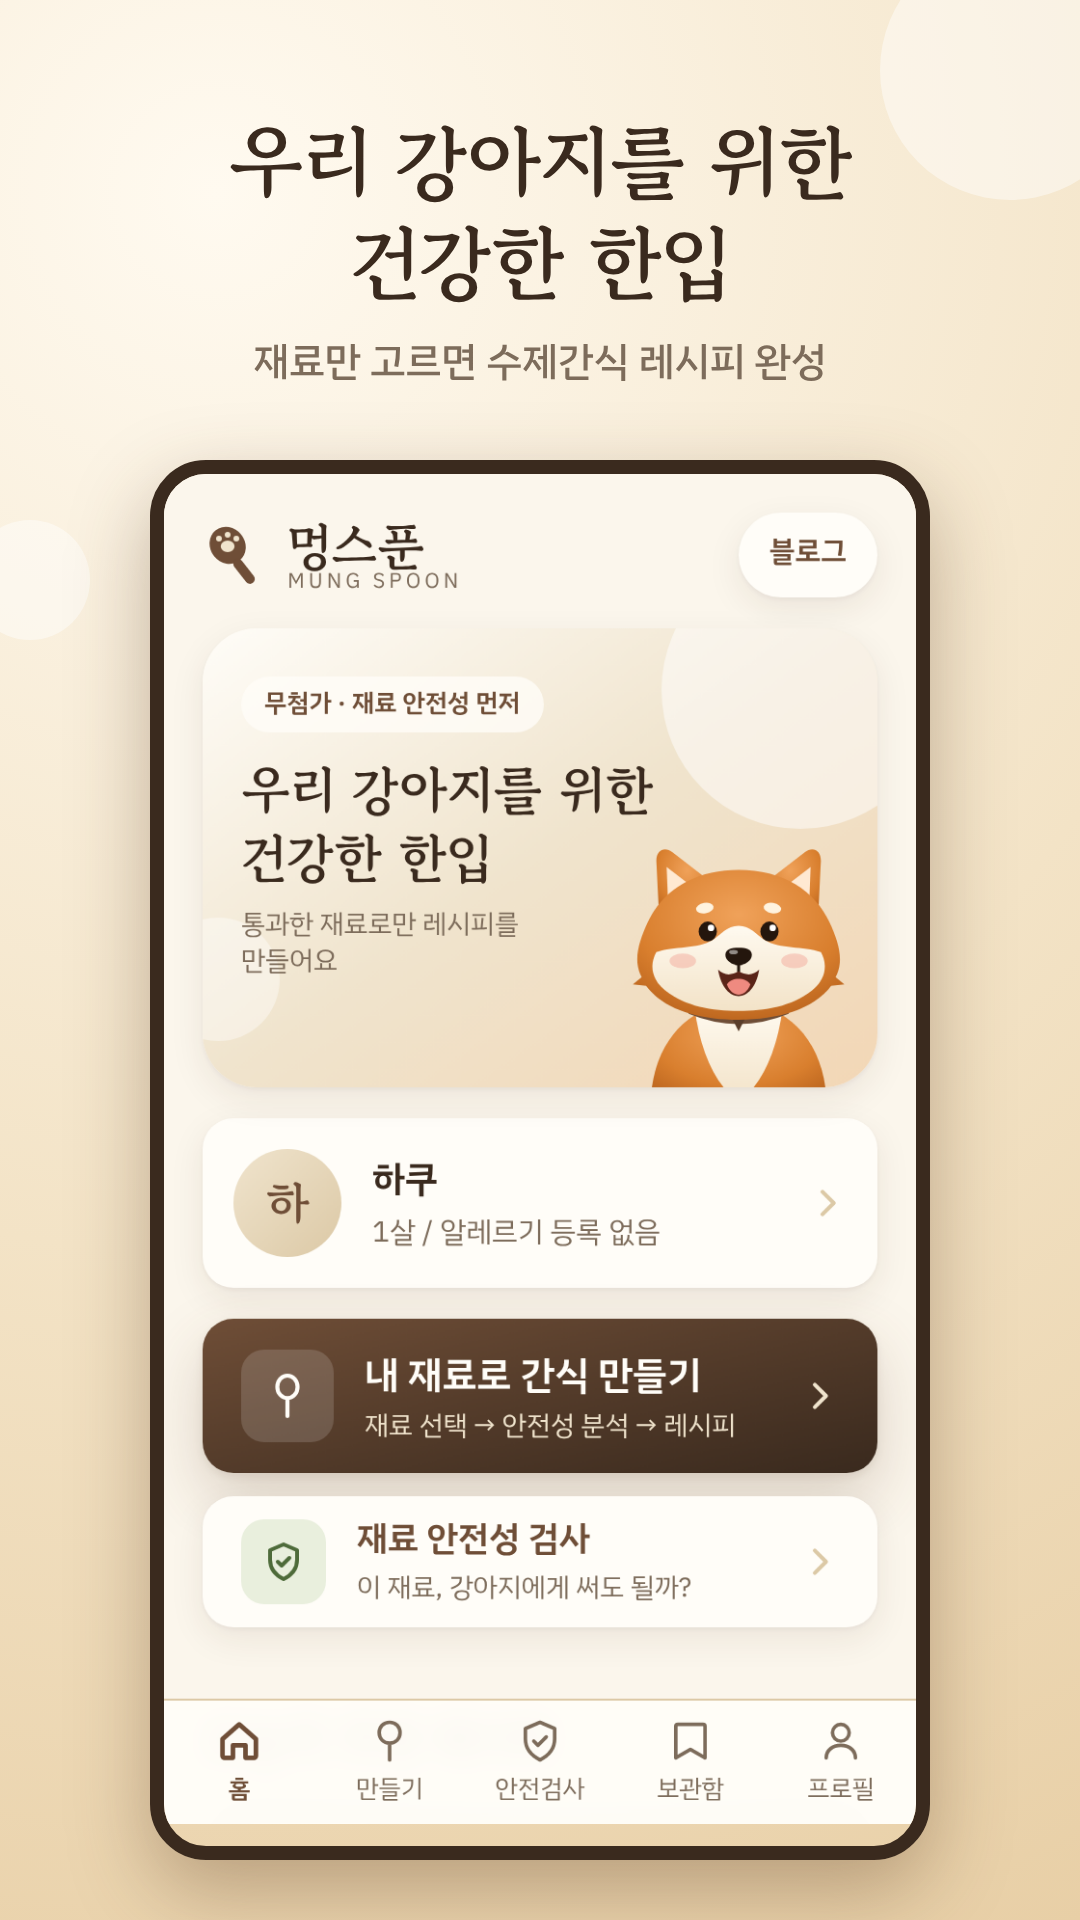
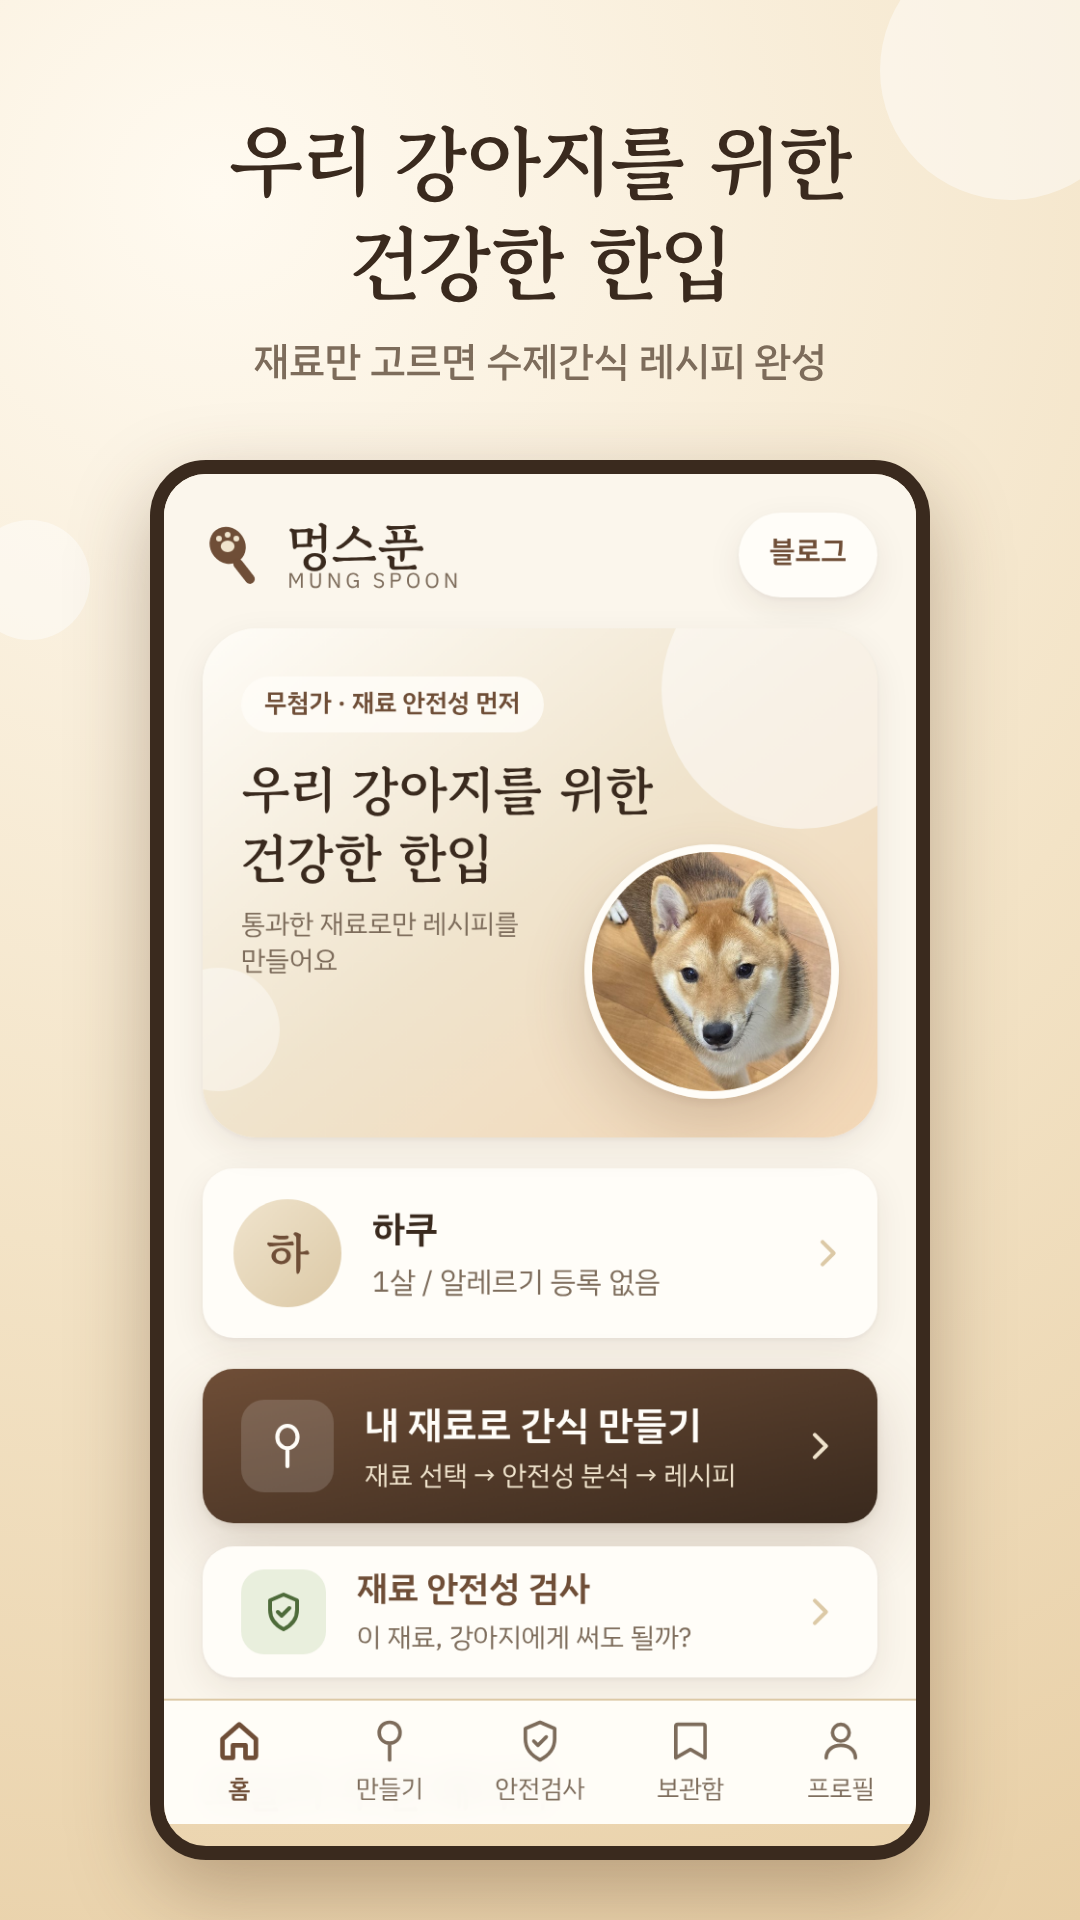
홈 대표 이미지를 하쿠 실제 사진으로 교체
- 시바견 그림 대신 하쿠 사진(public/haku.jpg)을 원형으로 표시
- 스토어 배너·스크린샷을 하쿠 사진으로 다시 생성

검증: 빌드 성공, API 테스트 43/43, 모바일 화면 테스트 49/49

Claude-Session: https://claude.ai/code/session_01QsM2oUPA3GnXVXwNwZboda

Changed region(s): [[0.1833, 0.4375, 0.825, 0.875]]

diff --git a/src/app/page.tsx b/src/app/page.tsx
@@ -5,7 +5,7 @@
 import Link from "next/link";
 import { useSyncExternalStore } from "react";
 import RecipeCard from "@/components/RecipeCard";
-import { AdSlot, DogHero, TopBar, TreatArt } from "@/components/ui";
+import { AdSlot, TopBar, TreatArt } from "@/components/ui";
 import { PRESETS, presetHref } from "@/lib/presets";
 import { useLogs, useProfile, useRecipes, useViewed } from "@/lib/store";
 import { TREAT_TYPES } from "@/lib/types";
@@ -40,7 +40,7 @@ export default function HomePage() {
         <span aria-hidden className="absolute -top-10 -right-8 h-36 w-36 rounded-full bg-white/50" />
         <span aria-hidden className="absolute bottom-6 -left-6 h-16 w-16 rounded-full bg-white/40" />
         {/* 글씨는 넓게 쓰고, 강아지는 오른쪽 아래에 앉혀서 슬로건이 어색하게 끊기지 않게 */}
-        <div className="relative min-h-[214px] pb-6">
+        <div className="relative min-h-[240px] pb-6">
           <span className="inline-block rounded-full bg-paper/80 px-3 py-1 text-[13px] font-semibold text-brown">
             무첨가 · 재료 안전성 먼저
           </span>
@@ -48,7 +48,15 @@ export default function HomePage() {
             우리 강아지를 위한<br />건강한 한입
           </p>
           <p className="mt-2 max-w-[55%] text-[14px] leading-snug text-muted">통과한 재료로만 레시피를 만들어요</p>
-          <DogHero className="absolute right-[-12px] bottom-0 h-[128px] w-[128px]" />
+          {/* 멍스푼의 주인공: 하쿠 실제 사진 (public/haku.jpg) — 동그랗게 자르고 흰 테두리 + 그림자 */}
+          {/* eslint-disable-next-line @next/next/no-img-element */}
+          <img
+            src="/haku.jpg"
+            alt="멍스푼의 주인공 시바견 하쿠"
+            width={132}
+            height={132}
+            className="absolute right-0 bottom-5 h-[132px] w-[132px] rounded-full border-4 border-paper object-cover shadow-lift"
+          />
         </div>
       </section>
 
